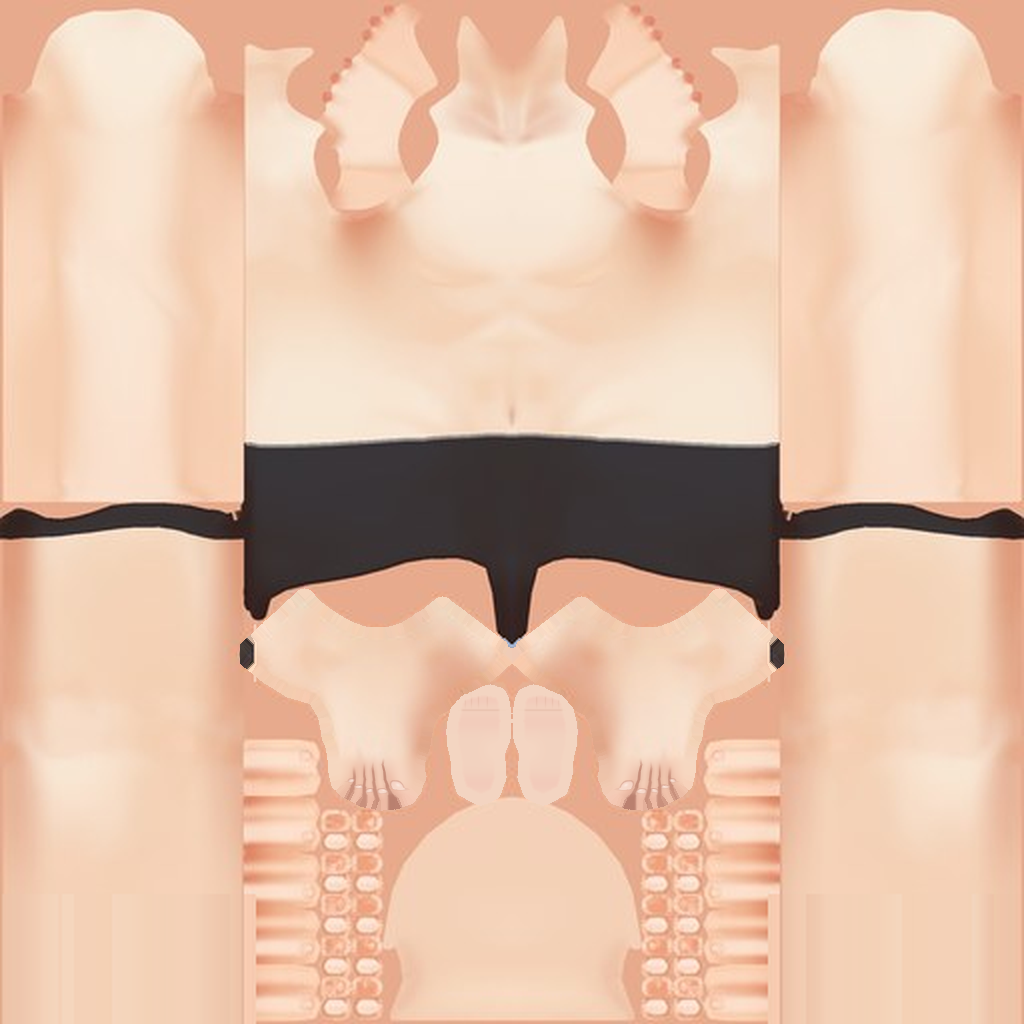
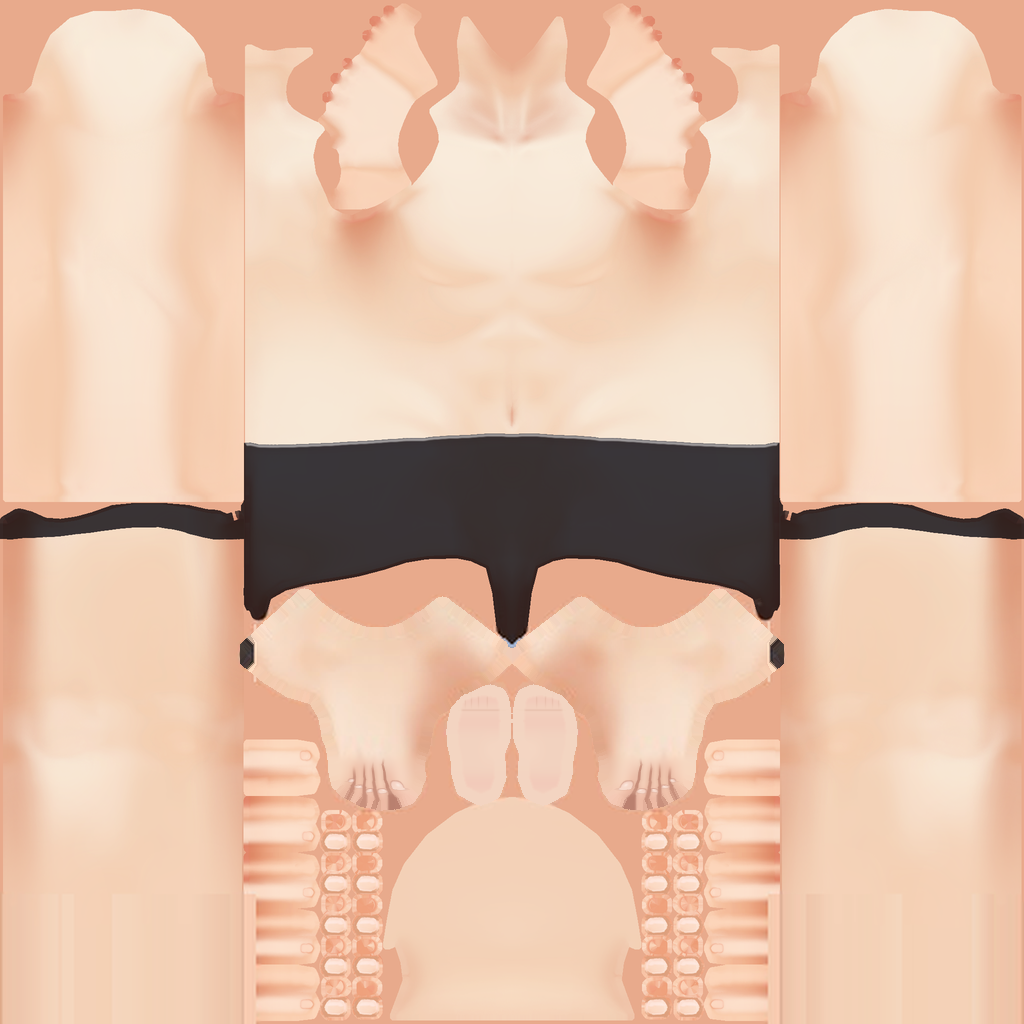
Wardrobe: bare-body textures keep the sharp original body art outside the painted legs and feet (scripts/sharpen_bare_bodies.py; re-run after any foot repaint)

diff --git a/app/scripts/sharpen_bare_bodies.py b/app/scripts/sharpen_bare_bodies.py
@@ -1,0 +1,44 @@
+#!/usr/bin/env python3
+# Keeps the bare-leg/foot body textures (public/looks/*.body-bare.webp) as
+# sharp as the restored body texture in the VRM files.
+#
+# The bare variants were painted on a 1024 px Lanczos upscale of the old
+# 512 px Body_00 map, so everything outside the painted legs and feet (arms,
+# hands, neck, torso) was soft. This script finds the painted texels (where
+# the variant differs from that upscale), keeps them exactly, and takes every
+# other texel from the original pixiv texture at 1024 px (the same pixels the
+# restored VRM now uses), with a 1-2 px feathered seam. Re-run it after any
+# repaint of the feet/legs.
+# Usage: python3 sharpen_bare_bodies.py ORIG_DIR OLD_MODELS_DIR LOOKS_DIR
+#   ORIG_DIR: original pixiv exports (Vivi.vrm ...); OLD_MODELS_DIR: our VRMs as of
+#   commit 9430546 (512 px textures, e.g. via `git show`); LOOKS_DIR: public/looks (edited in place).
+import io, os, sys
+import numpy as np
+from PIL import Image, ImageFilter
+from restore_vrm_textures import read_glb, view, NAMES  # same GLB helpers + roster
+
+def body_image(path, name=None):
+    j, b = read_glb(path)  # parse
+    im = [i for i in j["images"] if i.get("name", "").endswith("Body_00") and (name is None or i["name"] == name)][0]  # colour map, not _nml
+    return im["name"], Image.open(io.BytesIO(view(j, b, im["bufferView"]))).convert("RGBA")
+
+def sharpen(orig, old, bare_path):
+    name, low = body_image(old)  # 512 px map the paint started from
+    _, hi = body_image(orig, name)  # original pixels
+    bare = Image.open(bare_path).convert("RGBA"); R = bare.size[0]  # painted variant (1024)
+    hi = hi.resize(bare.size, Image.LANCZOS); up = low.resize(bare.size, Image.LANCZOS)  # same upscale the paint used
+    B = np.asarray(bare, float); U = np.asarray(up, float); H = np.asarray(hi, float)
+    seen = U[..., 3] > 0  # texels the body map shows at all (VRoid cuts the skin out under clothes; keep those cut-outs)
+    painted = ((np.abs(B - U).max(2) > 2) & seen).astype(np.uint8) * 255  # texels the paint touched
+    m = Image.fromarray(painted).filter(ImageFilter.MaxFilter(5)).filter(ImageFilter.GaussianBlur(1.2))  # grow 2 px, feather
+    M = np.asarray(m, float)[..., None] / 255.0
+    out = np.clip(H * (1 - M) + B * M + 0.5, 0, 255).astype(np.uint8)  # sharp base, paint on top
+    res = Image.fromarray(out, "RGBA")
+    if out[..., 3].min() == 255: res = res.convert("RGB")  # no transparency
+    res.save(bare_path, "WEBP", lossless=True, quality=100, method=6, exact=True)  # keep the painted feet pixel-exact
+    print(os.path.basename(bare_path), f"painted {painted.mean() / 255:.1%}", os.path.getsize(bare_path), "bytes")
+
+if __name__ == "__main__":
+    orig_dir, old_dir, looks = sys.argv[1:4]
+    for ours, theirs in NAMES.items():
+        sharpen(os.path.join(orig_dir, theirs + ".vrm"), os.path.join(old_dir, ours + ".vrm"), os.path.join(looks, f"{ours}.body-bare.webp"))

diff --git a/app/public/looks/README.md b/app/public/looks/README.md
@@ -18,9 +18,11 @@ repainted so bare feet read as natural anime feet:
   the foot and leg meshes meet, so no line shows at the ankle;
 - heel: a faint rosy tint.
 
-Everything outside the foot islands is a plain upscale of the previous
-512x512 texture, so faces, hair, hands and anything above the legs render
-the same. All textures are the characters' own CC0 VRoid art (pixiv Inc.);
+Everything outside the painted legs and feet is the character's original
+pixiv body texture at 1024 px (the same pixels the VRM files now use), put
+back by `scripts/sharpen_bare_bodies.py` after each repaint, so arms, hands,
+neck and torso stay as sharp barefoot as with shoes on. Texels VRoid cuts out
+under clothes stay cut out. All textures are the characters' own CC0 VRoid art (pixiv Inc.);
 no third-party images are used.
 
 `feet-rim-mask.png` (256x256, greyscale) is a shared mask for the MToon
